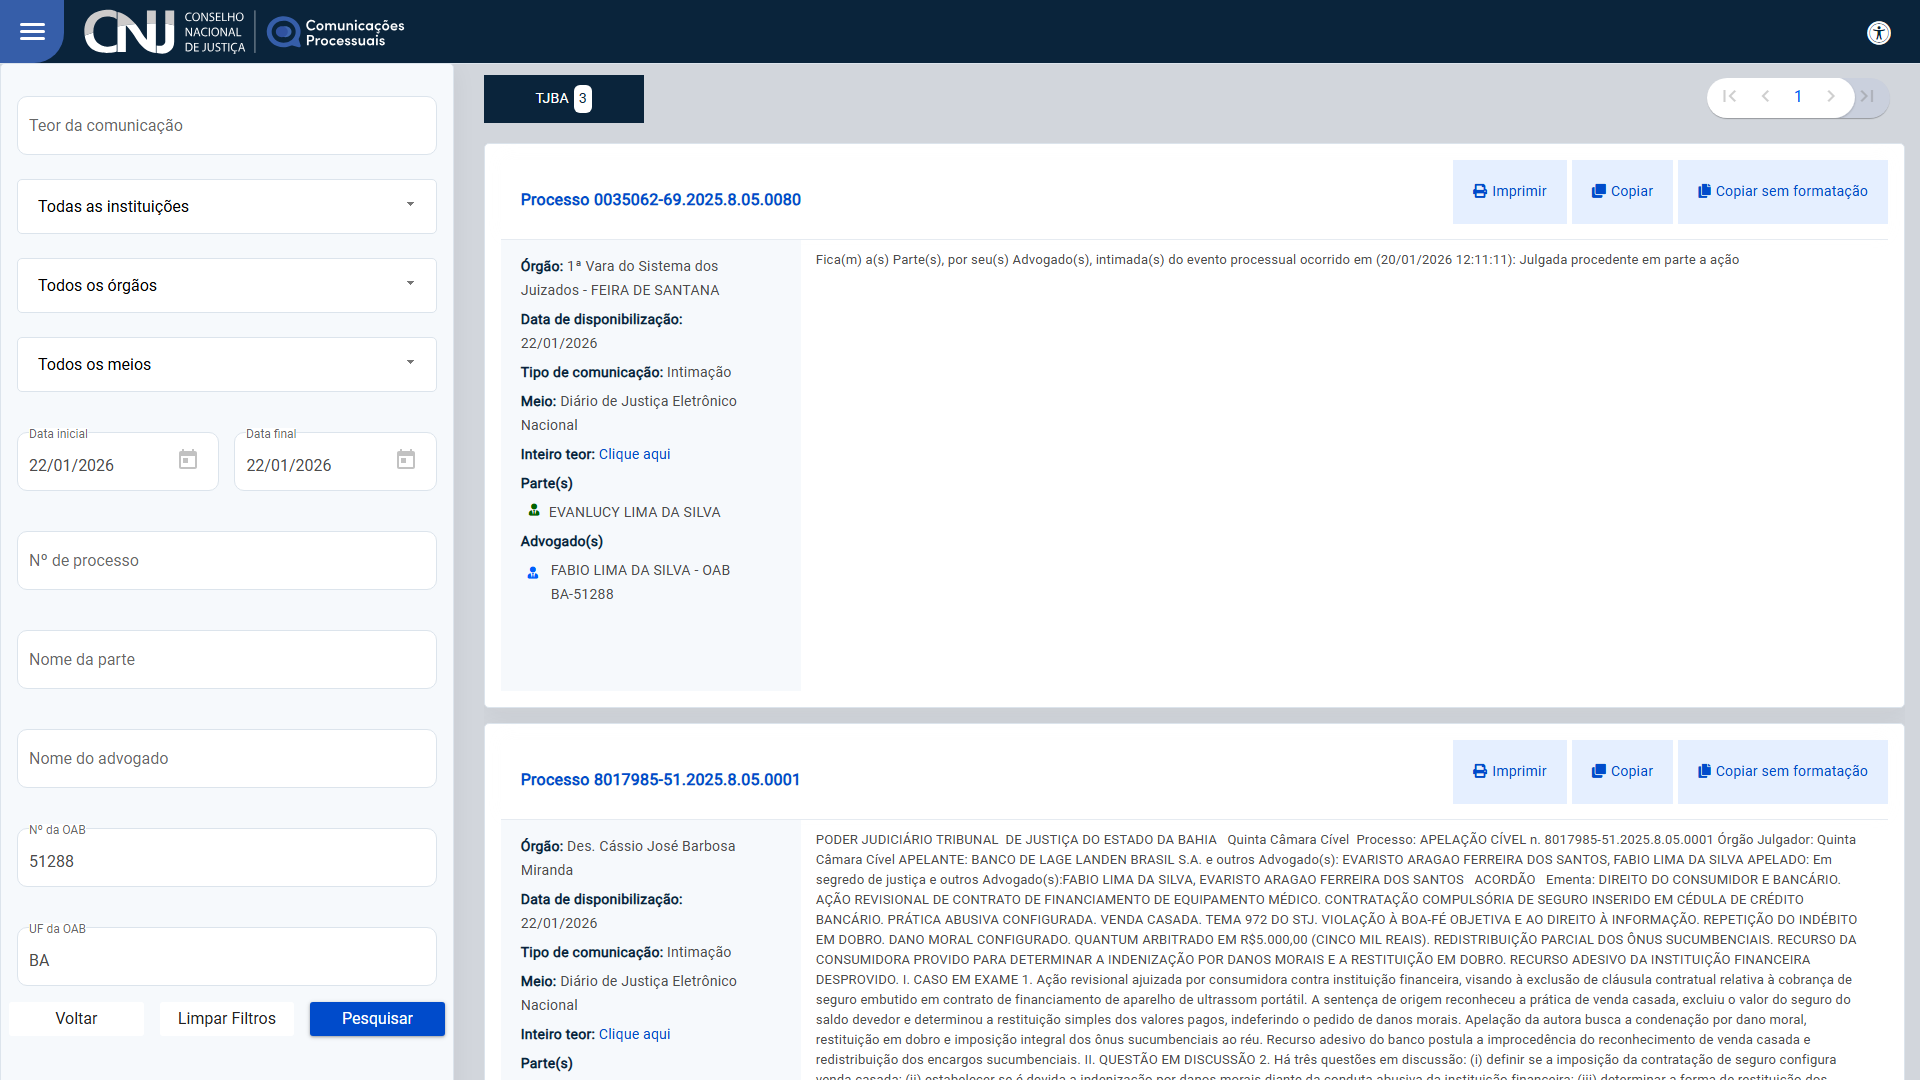
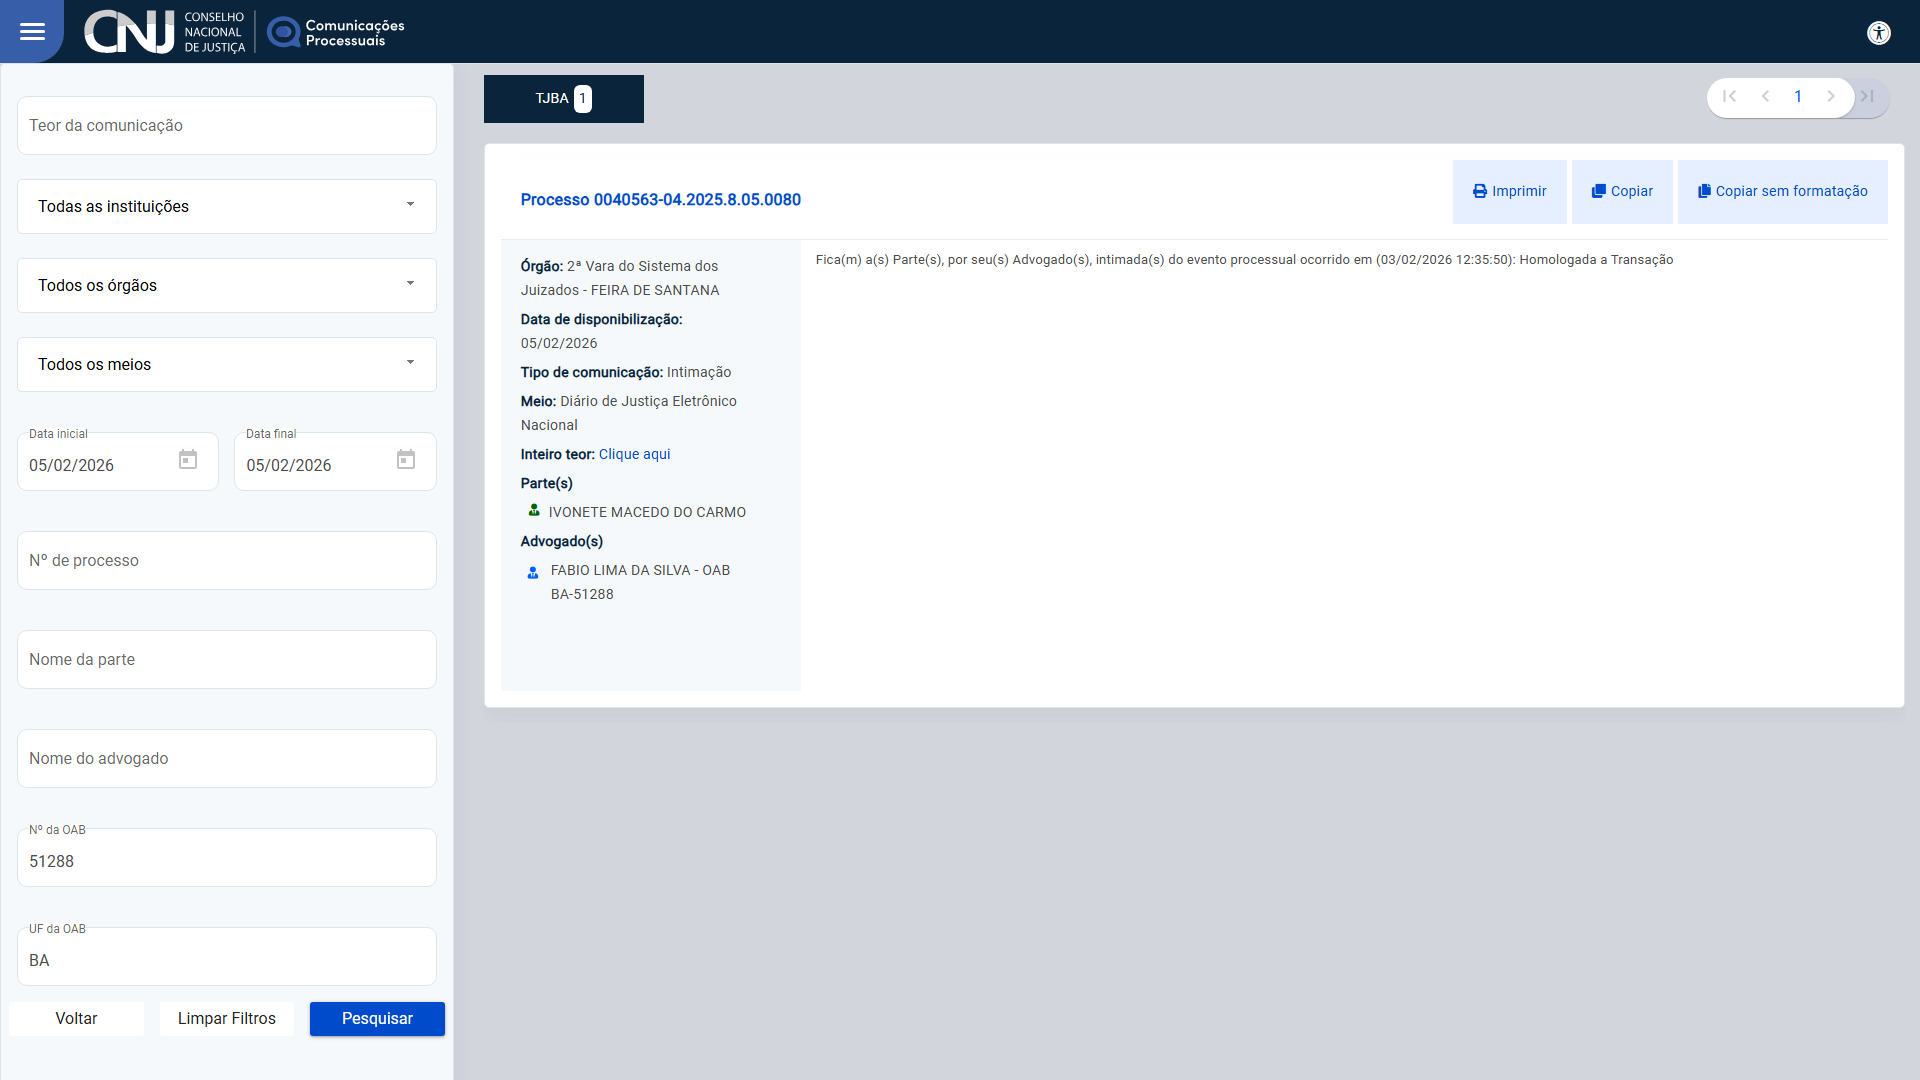
feat: fix: add chromium dependency

Changed region(s): [[0.25, 0.6722, 1.0, 1.0], [0.7812, 0.2139, 0.9062, 0.2444], [0.2812, 0.4583, 0.375, 0.4889]]

diff --git a/src/scrapers/djen_scraper.js b/src/scrapers/djen_scraper.js
@@ -1,8 +1,8 @@
 /**
- * 🎯 SCRAPER COMUNICA PJE - VERSÃO UNIVERSAL
+ * 🎯 SCRAPER COMUNICA PJE - DETECÇÃO DE AMBIENTE CORRIGIDA
  * 
  * ✅ Windows (desenvolvimento)
- * ✅ Linux (servidor local)
+ * ✅ Linux local (servidor)
  * ✅ Render.com (produção)
  */
 
@@ -10,49 +10,61 @@ const pool = require('../config/db');
 const path = require('path');
 const fs = require('fs');
 
-// ✅ DETECÇÃO AUTOMÁTICA DE AMBIENTE - CORRIGIDA
-const isRender = process.env.RENDER === 'true';
-const isProduction = process.env.NODE_ENV === 'production';
+// ✅ DETECÇÃO DE AMBIENTE MAIS PRECISA
+const isRender = process.env.RENDER === 'true' || process.env.RENDER_SERVICE_NAME !== undefined;
 const isWindows = process.platform === 'win32';
+const isLocal = !isRender; // Se não for Render, é local
 
-// ✅ Usar puppeteer-core APENAS no Render, não em produção local
-const shouldUseChromium = isRender && !isWindows;
+console.log('🔍 [AMBIENTE] Detecção:');
+console.log(`   RENDER env: ${process.env.RENDER}`);
+console.log(`   RENDER_SERVICE_NAME: ${process.env.RENDER_SERVICE_NAME}`);
+console.log(`   Platform: ${process.platform}`);
+console.log(`   isRender: ${isRender}`);
+console.log(`   isLocal: ${isLocal}`);
+console.log(`   isWindows: ${isWindows}`);
 
 let puppeteer;
-let chromium = null;
 
-// Carregar dependências corretas baseado no ambiente
-if (shouldUseChromium) {
-    // PRODUÇÃO NO RENDER (Linux serverless)
+// ✅ LÓGICA SIMPLIFICADA: Render usa puppeteer-core, resto usa puppeteer
+if (isRender) {
     try {
         puppeteer = require('puppeteer-core');
-        chromium = require('@sparticuz/chromium');
-        console.log('✅ Modo RENDER: puppeteer-core + @sparticuz/chromium');
+        const chromium = require('@sparticuz/chromium');
+        console.log('✅ Modo RENDER: puppeteer-core + chromium');
+        module.exports.chromium = chromium;
     } catch (err) {
-        console.warn('⚠ Fallback para puppeteer padrão');
+        console.error('❌ Erro ao carregar puppeteer-core no Render:', err.message);
         puppeteer = require('puppeteer');
-        chromium = null;
     }
 } else {
-    // DESENVOLVIMENTO ou PRODUÇÃO LOCAL (Windows/Linux com Chrome instalado)
+    // LOCAL (Windows ou Linux)
     puppeteer = require('puppeteer');
-    console.log(`✅ Modo ${isWindows ? 'DESENVOLVIMENTO WINDOWS' : 'LOCAL'}: puppeteer`);
+    console.log(`✅ Modo LOCAL (${isWindows ? 'Windows' : 'Linux'}): puppeteer`);
 }
 
 async function getBrowserConfig() {
-    // ✅ Usar chromium APENAS se estiver no Render
-    if (shouldUseChromium && chromium) {
-        console.log('   🚀 Usando Chromium serverless (Render)');
+    if (isRender && module.exports.chromium) {
+        // RENDER - Usar Chromium serverless
+        const chromium = module.exports.chromium;
+        console.log('   🚀 Config: Chromium serverless (Render)');
+        
         return {
-            args: chromium.args,
+            args: [
+                ...chromium.args,
+                '--single-process',
+                '--no-zygote'
+            ],
             defaultViewport: chromium.defaultViewport,
             executablePath: await chromium.executablePath(),
             headless: chromium.headless,
-            ignoreHTTPSErrors: true
+            ignoreHTTPSErrors: true,
+            timeout: 120000,
+            protocolTimeout: 120000
         };
     } else {
-        // Local - Deixar Puppeteer encontrar Chrome automaticamente
-        console.log('   🖥 Usando Chrome/Chromium local');
+        // LOCAL - Chrome/Chromium instalado
+        console.log('   🖥 Config: Chrome/Chromium local');
+        
         return {
             headless: 'new',
             args: [
@@ -61,18 +73,17 @@ async function getBrowserConfig() {
                 '--disable-dev-shm-usage',
                 '--disable-accelerated-2d-canvas',
                 '--disable-gpu'
-            ]
-            // ✅ NÃO definir executablePath - deixa Puppeteer achar sozinho
+            ],
+            timeout: 60000
+            // ✅ SEM executablePath - deixa Puppeteer encontrar
         };
     }
 }
 
 async function buscarPublicacoesDJEN(oab, uf, escritorioId, dataInicio = null, dataFim = null) {
     console.log(`\n🎯 [COMUNICA PJE] Iniciando busca...`);
-    console.log(`   🌍 Ambiente: ${isRender ? 'RENDER' : isWindows ? 'WINDOWS' : 'LINUX LOCAL'}`);
-    console.log(`   📦 NODE_ENV: ${process.env.NODE_ENV || 'não definido'}`);
+    console.log(`   🌍 Ambiente: ${isRender ? 'RENDER' : 'LOCAL'}`);
     console.log(`   💻 Platform: ${process.platform}`);
-    console.log(`   🔧 Usando Chromium: ${shouldUseChromium ? 'SIM' : 'NÃO'}`);
     console.log(`   OAB: ${oab}`);
     console.log(`   UF: ${uf}`);
     console.log(`   Escritório ID: ${escritorioId}`);
@@ -90,7 +101,7 @@ async function buscarPublicacoesDJEN(oab, uf, escritorioId, dataInicio = null, d
         if (dataInicio && dataFim) {
             dataInicioStr = dataInicio;
             dataFimStr = dataFim;
-            console.log(`   📅 Período PERSONALIZADO: ${dataInicio} a ${dataFim}`);
+            console.log(`   📅 Período: ${dataInicio} a ${dataFim}`);
         } else {
             const hoje = new Date();
             const noventaDiasAtras = new Date();
@@ -99,7 +110,7 @@ async function buscarPublicacoesDJEN(oab, uf, escritorioId, dataInicio = null, d
             dataInicioStr = noventaDiasAtras.toISOString().split('T')[0];
             dataFimStr = hoje.toISOString().split('T')[0];
             
-            console.log(`   📅 Período PADRÃO (90 dias): ${dataInicioStr} a ${dataFimStr}`);
+            console.log(`   📅 Período padrão: ${dataInicioStr} a ${dataFimStr}`);
         }
         
         const url = `https://comunica.pje.jus.br/consulta?dataDisponibilizacaoInicio=${dataInicioStr}&dataDisponibilizacaoFim=${dataFimStr}&numeroOab=${oabSemZeros}&ufOab=${uf}`;
@@ -107,31 +118,63 @@ async function buscarPublicacoesDJEN(oab, uf, escritorioId, dataInicio = null, d
         console.log(`\n🔗 URL: ${url}`);
         console.log('🌐 Abrindo navegador...');
         
-        // ✅ Obter configuração correta para o ambiente
         const config = await getBrowserConfig();
         
         browser = await puppeteer.launch(config);
-        console.log('   ✅ Navegador aberto com sucesso');
+        console.log('   ✅ Navegador aberto');
         
         const page = await browser.newPage();
+        
+        // ✅ Timeout maior APENAS no Render
+        if (isRender) {
+            await page.setDefaultNavigationTimeout(90000);
+            await page.setDefaultTimeout(90000);
+            console.log('   ⏱ Timeout: 90s (Render)');
+        } else {
+            await page.setDefaultNavigationTimeout(30000);
+            await page.setDefaultTimeout(30000);
+            console.log('   ⏱ Timeout: 30s (Local)');
+        }
+        
         await page.setViewport({ width: 1920, height: 1080 });
         await page.setUserAgent(
             'Mozilla/5.0 (Windows NT 10.0; Win64; x64) AppleWebKit/537.36 (KHTML, like Gecko) Chrome/120.0.0.0 Safari/537.36'
         );
+        
+        // ✅ Otimização APENAS no Render (local não precisa)
+        if (isRender) {
+            console.log('   🚀 Otimização Render: bloqueando imagens/CSS');
+            await page.setRequestInterception(true);
+            page.on('request', (req) => {
+                const resourceType = req.resourceType();
+                if (['image', 'stylesheet', 'font', 'media'].includes(resourceType)) {
+                    req.abort();
+                } else {
+                    req.continue();
+                }
+            });
+        }
         
         const screenshotDir = path.join(__dirname, '..', 'debug_screenshots');
         if (!fs.existsSync(screenshotDir)) {
             fs.mkdirSync(screenshotDir, { recursive: true });
         }
         
-        console.log('⏳ Carregando resultados...');
+        console.log('⏳ Carregando página...');
+        
+        // ✅ Navegação com timeout apropriado
+        const navTimeout = isRender ? 90000 : 30000;
         
         await page.goto(url, {
             waitUntil: 'networkidle2',
-            timeout: 30000
+            timeout: navTimeout
         });
         
-        await new Promise(resolve => setTimeout(resolve, 5000));
+        console.log('   ✅ Página carregada');
+        
+        // Aguardar conteúdo
+        const waitTime = isRender ? 10000 : 5000;
+        await new Promise(resolve => setTimeout(resolve, waitTime));
         
         await page.screenshot({ 
             path: path.join(screenshotDir, 'comunica_pje_pagina.png'),
@@ -144,7 +187,6 @@ async function buscarPublicacoesDJEN(oab, uf, escritorioId, dataInicio = null, d
         
         console.log(`\n📄 ========== PROCESSANDO INTIMAÇÕES ==========`);
         
-        // Detectar abas
         console.log('📊 Detectando abas...');
         const abas = await detectarAbas(page);
         
@@ -158,7 +200,6 @@ async function buscarPublicacoesDJEN(oab, uf, escritorioId, dataInicio = null, d
             const pubs = await extrairPublicacoesPagina(page, '');
             adicionarPublicacoesUnicas(pubs, todasPublicacoes, processosJaVistos);
         } else {
-            // Processar cada aba
             for (let i = 0; i < abas.length; i++) {
                 const aba = abas[i];
                 console.log(`\n   🔍 Aba ${i + 1}/${abas.length}: ${aba.texto}`);
@@ -179,7 +220,6 @@ async function buscarPublicacoesDJEN(oab, uf, escritorioId, dataInicio = null, d
         }
         
         console.log(`\n✅ Total: ${todasPublicacoes.length} intimações únicas`);
-        console.log(`   Processos únicos: ${processosJaVistos.size}`);
         
         await page.screenshot({ 
             path: path.join(screenshotDir, 'comunica_pje_final.png'),
@@ -192,14 +232,12 @@ async function buscarPublicacoesDJEN(oab, uf, escritorioId, dataInicio = null, d
         
     } catch (err) {
         console.error('❌ [COMUNICA PJE] Erro:', err.message);
-        console.error('Stack trace:', err.stack);
+        console.error('Stack:', err.stack);
         
         if (browser) {
             try {
                 await browser.close();
-            } catch (e) {
-                console.error('Erro ao fechar navegador:', e.message);
-            }
+            } catch (e) {}
         }
         
         return {
@@ -286,10 +324,7 @@ async function extrairPublicacoesPagina(page, abaAtiva) {
                     const matchData = textoElem.match(/(\d{2})\/(\d{2})\/(\d{4})/);
                     const data = matchData ? matchData[0] : new Date().toLocaleDateString('pt-BR');
                     
-                    const conteudo = textoElem
-                        .replace(/\s+/g, ' ')
-                        .trim()
-                        .substring(0, 5000);
+                    const conteudo = textoElem.replace(/\s+/g, ' ').trim().substring(0, 5000);
                     
                     if (conteudo.length > 100) {
                         items.push({
@@ -324,10 +359,7 @@ async function extrairPublicacoesPagina(page, abaAtiva) {
             const match = textoCompleto.match(regex);
             
             if (match) {
-                const conteudo = (proc + ' ' + match[1])
-                    .replace(/\s+/g, ' ')
-                    .trim();
-                
+                const conteudo = (proc + ' ' + match[1]).replace(/\s+/g, ' ').trim();
                 const matchData = conteudo.match(/(\d{2})\/(\d{2})\/(\d{4})/);
                 const data = matchData ? matchData[0] : new Date().toLocaleDateString('pt-BR');
                 
@@ -371,8 +403,7 @@ async function salvarPublicacoes(publicacoes, escritorioId) {
     for (const pub of publicacoes) {
         try {
             const existe = await pool.query(
-                `SELECT id FROM publicacoes 
-                 WHERE numero_processo = $1 AND escritorio_id = $2`,
+                `SELECT id FROM publicacoes WHERE numero_processo = $1 AND escritorio_id = $2`,
                 [pub.processo, escritorioId]
             );
             
@@ -393,8 +424,7 @@ async function salvarPublicacoes(publicacoes, escritorioId) {
             
             await pool.query(
                 `INSERT INTO publicacoes 
-                 (escritorio_id, numero_processo, data_publicacao, conteudo, 
-                  tribunal, tipo, status)
+                 (escritorio_id, numero_processo, data_publicacao, conteudo, tribunal, tipo, status)
                  VALUES ($1, $2, $3, $4, $5, $6, 'pendente')`,
                 [escritorioId, pub.processo, dataSql, pub.conteudo, pub.tribunal, pub.tipo]
             );
